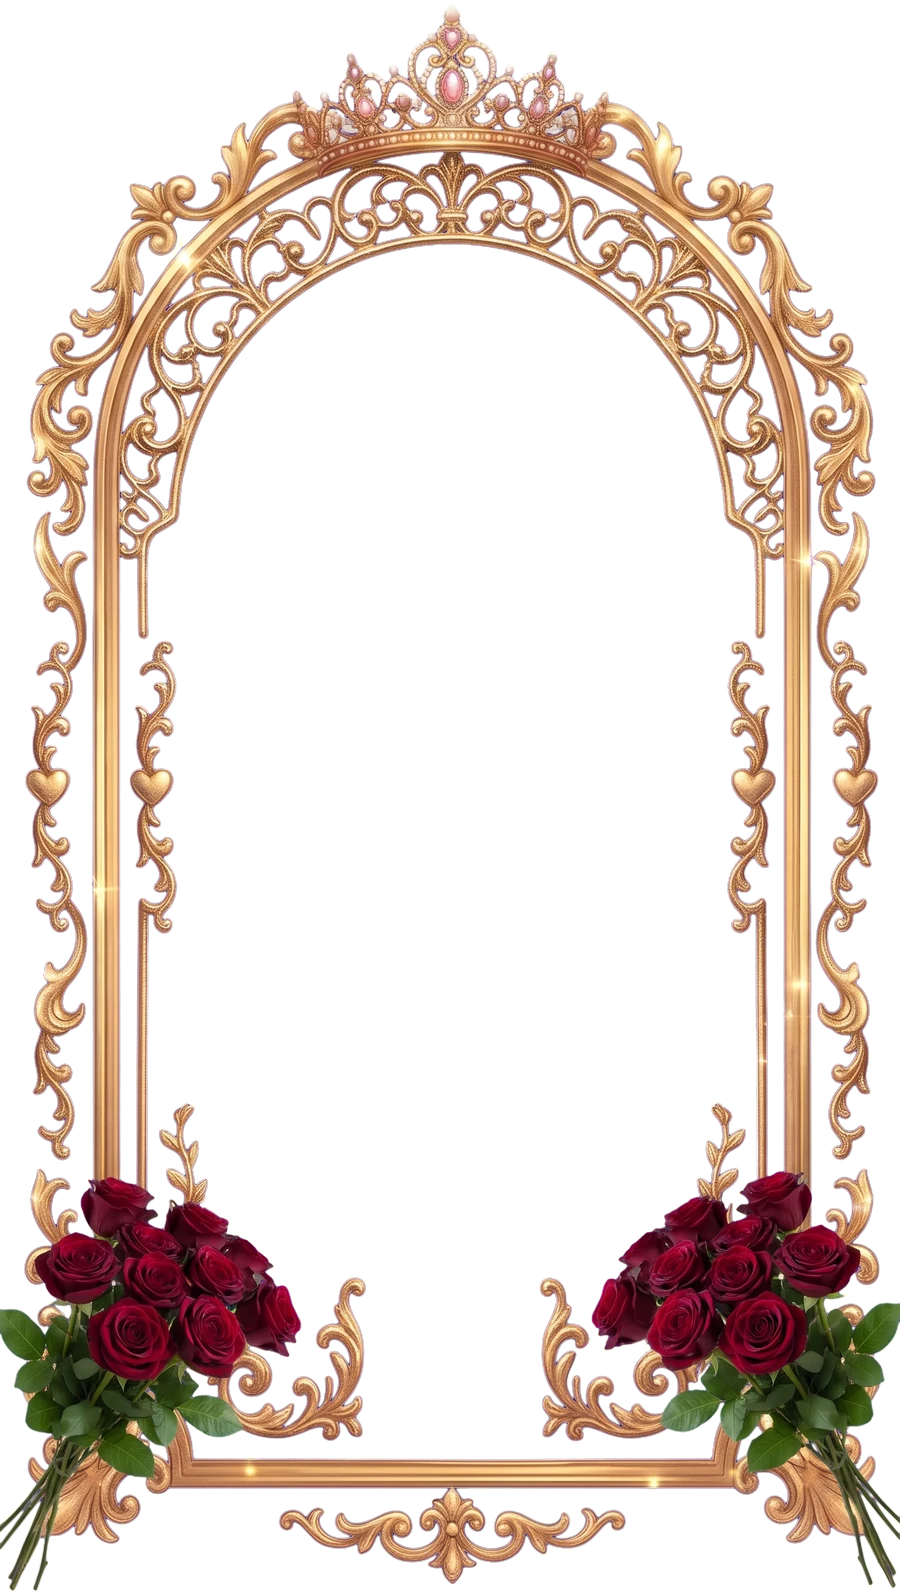
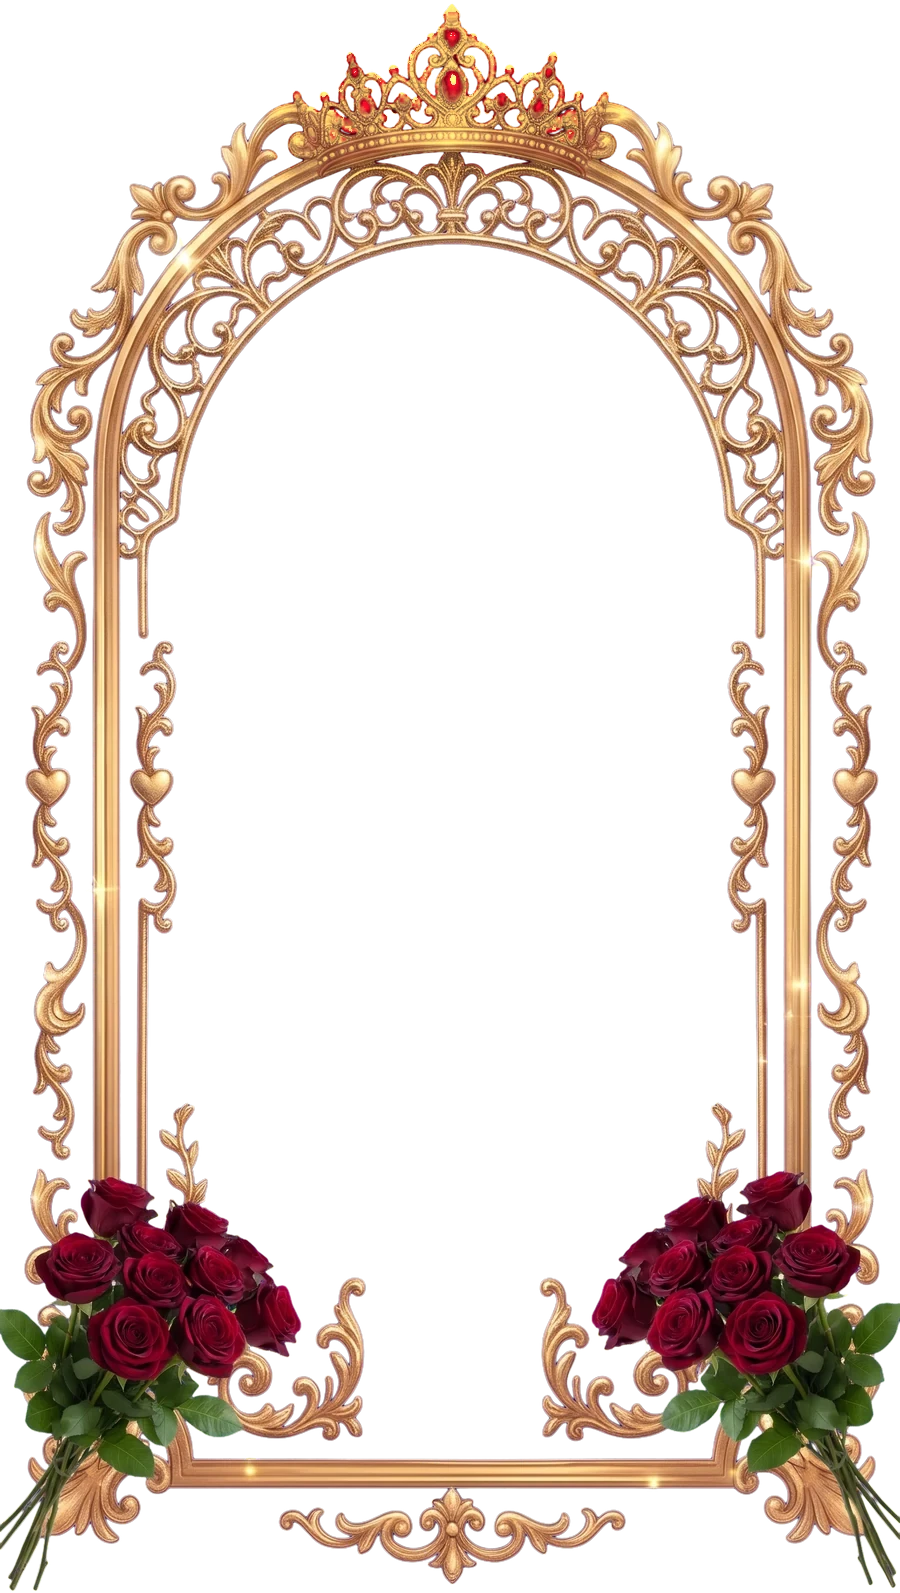
Niralys: portada en capas (foto original recortada, fondo vino, tiara pequeña, nombre de Gemini, mariposas), guirnaldas rojas y doradas, corona con rubíes, sobre sin bordes blancos

Changed region(s): [[0.3111, 0.0, 0.7156, 0.123]]

diff --git a/mis-xv-niralys/index.html b/mis-xv-niralys/index.html
@@ -30,7 +30,8 @@
 <!-- Lo primero que baja: las puertas (si cambias estas imágenes en el CONFIG, cambia también estas 3 líneas) -->
 <link rel="preload" href="recursos/apertura-marco.webp" as="image" fetchpriority="high">
 <link rel="preload" href="recursos/sello-corona.webp" as="image" fetchpriority="high">
-<link rel="preload" href="recursos/portada-p8.webp" as="image">
+<link rel="preload" href="recursos/portada-fondo.webp" as="image">
+<link rel="preload" href="recursos/portada-chica.webp" as="image">
 
 <!--
   ==========================================================================
@@ -191,10 +192,10 @@ const CONFIG = {
   // Vacío ("") = se usa la versión hecha con código (colores, marcos y adornos de respaldo).
   // Cuando llegue cada imagen, se pone su ruta, por ejemplo "recursos/portada.webp".
   imagenes: {
-    portada: "recursos/portada-p8.webp",               // Niralys a pantalla completa (portada 7) ("" = el arco de las puertas con el nombre en la luz)
+    portada: "recursos/portada-fondo.webp",               // Niralys a pantalla completa (portada 7) ("" = el arco de las puertas con el nombre en la luz)
     nombreOro: "",          // "Valentina" en dorado 3D (si cambias el nombre, vacíalo o haz otra imagen)
     fondo: "recursos/fondo.webp",                   // fondo fijo: muro del castillo con rosas a los lados
-    guirnalda: "recursos/guirnalda.webp",           // glicinias y rosas colgando
+    guirnalda: "recursos/guirnalda-roja.webp",           // glicinias y rosas colgando
     rosal: "recursos/rosal.webp",                   // rosal de la esquina (el otro lado es el mismo, volteado)
     marcoFiligrana: "recursos/marco-filigrana.webp", // marco dorado en arco del mensaje ("" = arco con doble moldura hecho con código)
     ventanaMarco: { x: 13.3, y: 15.4, w: 73.6, h: 76.1 },   // hueco del marco (%): izquierda, arriba, ancho, alto (se rellena de rosa claro)
@@ -206,7 +207,7 @@ const CONFIG = {
     iconoIglesia: "recursos/icono-iglesia.webp",
     iconoRecepcion: "recursos/icono-recepcion.webp",
     iconoVestimenta: "recursos/icono-vestimenta.webp",
-    iconoSobre: "recursos/icono-sobre.webp",
+    iconoSobre: "recursos/icono-sobre-rojo.webp",
     teEspero: ""          // "Te Espero" en dorado 3D
   },
 
@@ -704,6 +705,21 @@ body { background: #3a0913; }
 #portada.visible .lema { animation: sube .9s 1.2s ease-out forwards; }
 #portada:not(.sin-imagen) .encabezado::before { content: ""; position: absolute; z-index: -1; left: 4cqw; right: 4cqw; top: -4cqw; bottom: -3cqw; background: radial-gradient(ellipse 50% 50% at 50% 50%, rgba(70, 8, 22, .55) 0%, rgba(70, 8, 22, .3) 55%, rgba(70, 8, 22, 0) 100%); pointer-events: none; }
 #portada .baja { bottom: 3cqw; color: #f3d79a; text-shadow: 0 1px 4px rgba(30, 0, 6, .9); }
+/* ===== Niralys v7: portada en capas (fondo Gemini + Niralys recortada de la foto original + rosas, tiara y nombre de Gemini) ===== */
+#portada .p-chica { position: absolute; z-index: 1; left: 50%; top: 2%; width: 112cqw; max-width: none; translate: -50% 0; pointer-events: none;
+  -webkit-mask-image: linear-gradient(#000 62%, transparent 92%); mask-image: linear-gradient(#000 62%, transparent 92%); }
+#portada .p-rosas { position: absolute; z-index: 3; left: 0; bottom: 0; width: 100%; height: auto; pointer-events: none; }
+#portada:not(.sin-imagen) .encabezado { top: auto; bottom: 21%; z-index: 4; }
+#portada:not(.sin-imagen) .encabezado::before { top: 2cqw; }
+#portada .nombre { display: none !important; }
+#portada .p-tiara { display: block; width: 44cqw; margin: 0 auto -1cqw; filter: drop-shadow(0 3px 5px rgba(30, 0, 6, .6)); opacity: 0; transform: translateY(-3cqw); }
+#portada .p-nombre { display: block; width: 74cqw; margin: 0 auto; filter: drop-shadow(0 2px 4px rgba(30, 0, 6, .8)); opacity: 0; transform: scale(.92); }
+#portada.visible .p-tiara { animation: sube 1s .2s ease-out forwards; }
+#portada.visible .p-nombre { animation: aparece-nombre 1.3s .5s cubic-bezier(.2, .8, .3, 1) forwards; }
+#portada .lema { margin-top: 0; }
+#portada .mariposa { display: block !important; z-index: 5; }
+#portada .baja { z-index: 6; bottom: 2.5cqw; }
+#despedida .guirnalda { -webkit-mask-image: linear-gradient(transparent 0, #000 22%); mask-image: linear-gradient(transparent 0, #000 22%); }
 </style>
 </head>
 
@@ -726,8 +742,12 @@ body { background: #3a0913; }
     <img class="portada-img" data-img="portada" alt="" loading="lazy" decoding="async" width="720" height="1290">
     <img class="arco-respaldo" id="arco-respaldo" alt="" decoding="async">
     <div class="velo"></div>
+    <img class="p-chica" src="recursos/portada-chica.webp" alt="Niralys" decoding="async">
+    <img class="p-rosas" src="recursos/portada-rosas.webp" alt="" decoding="async">
     <div class="destellos"></div>
     <div class="encabezado">
+      <img class="p-tiara" src="recursos/tiara-portada.webp" alt="" decoding="async">
+      <img class="p-nombre" src="recursos/nombre-portada.webp" alt="Niralys" decoding="async">
       <div class="corona" data-corona></div>
       <div class="nombre" data-nombre></div>
       <p class="arriba" id="arriba"></p>
